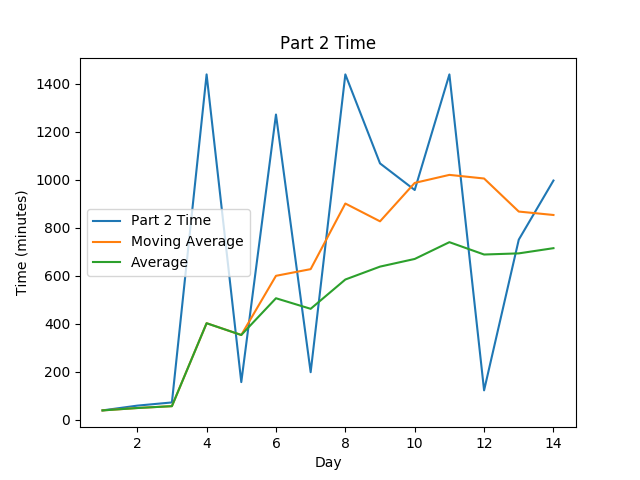
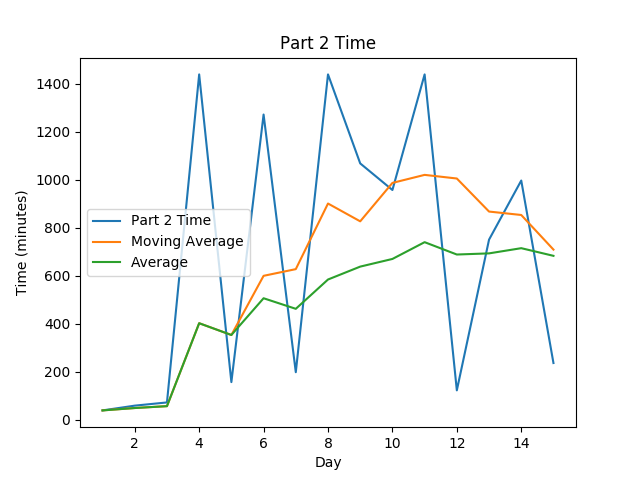
Day 15, stats, and makefile debugging

diff --git a/src/day15.go b/src/day15.go
@@ -1,0 +1,194 @@
+package main
+
+import (
+	"IntCode"
+	"bufio"
+	"flag"
+	"fmt"
+	"log"
+	"math"
+	"math/rand"
+	"os"
+	"strconv"
+	"strings"
+	"sync"
+)
+
+const (
+	NORTH = 1
+	SOUTH = 2
+	WEST  = 3
+	EAST  = 4
+)
+
+type coord struct {
+	X int
+	Y int
+}
+
+func (c *coord) clone() *coord {
+	return &coord{X: c.X, Y: c.Y}
+}
+
+func (c *coord) move(direction int) coord {
+	switch direction {
+	case NORTH:
+		c.Y++
+	case EAST:
+		c.X++
+	case SOUTH:
+		c.Y--
+	case WEST:
+		c.X--
+	default:
+		log.Fatalf("Invalid direction received: %d", direction)
+	}
+	return *c
+}
+
+func (c *coord) closest(movementMap map[coord]int) int {
+	minSteps := math.MaxInt64
+	if testDist := movementMap[c.clone().move(NORTH)]; testDist < minSteps && testDist > 0 {
+		minSteps = testDist
+	}
+	if testDist := movementMap[c.clone().move(SOUTH)]; testDist < minSteps && testDist > 0 {
+		minSteps = testDist
+	}
+	if testDist := movementMap[c.clone().move(EAST)]; testDist < minSteps && testDist > 0 {
+		minSteps = testDist
+	}
+	if testDist := movementMap[c.clone().move(WEST)]; testDist < minSteps && testDist > 0 {
+		minSteps = testDist
+	}
+	return minSteps
+}
+
+func (c *coord) hasAdjacentUnsolved(movementMap map[coord]int) bool {
+	for i := 1; i <= 4; i++ {
+		if _, keyExists := movementMap[c.clone().move(i)]; !keyExists {
+			return true
+		}
+	}
+	return false
+}
+
+var (
+	inputFile = flag.String("inputFile", "inputs/day15.txt", "Input File")
+)
+
+func main() {
+	flag.Parse()
+
+	commands := processInput()
+	run(commands)
+}
+
+func processInput() []int {
+	file, err := os.Open(*inputFile)
+	if err != nil {
+		log.Fatal(err)
+	}
+	//noinspection GoUnhandledErrorResult
+	defer file.Close()
+
+	// Read in inputs
+	scanner := bufio.NewScanner(file)
+	inputStringFromFile := ""
+	for scanner.Scan() {
+		inputStringFromFile += scanner.Text()
+	}
+
+	commandStrings := strings.Split(inputStringFromFile, ",")
+	var commands []int
+	for _, commandString := range commandStrings {
+		command, err := strconv.Atoi(commandString)
+		if err != nil {
+			log.Fatal(err)
+		}
+		commands = append(commands, command)
+	}
+	return commands
+}
+
+func run(commands []int) {
+	botController := IntCode.New()
+	commandsClone := make([]int, len(commands))
+	copy(commandsClone, commands)
+	go botController.Run(commandsClone)
+
+	movementMap := make(map[coord]int)
+	moveDirection := NORTH
+	botController.Input <- moveDirection
+	wg := sync.WaitGroup{}
+	wg.Add(1)
+	go func(botController *IntCode.Stream) {
+		defer func() {
+			wg.Done()
+			recovery := recover()
+			if recovery != nil && fmt.Sprint(recovery) != "send on closed channel" {
+				panic(recovery)
+			}
+		}()
+
+		robotLocation := coord{X: 0, Y: 0}
+		movementMap[robotLocation] = 1
+		for movementStatus := range botController.Output {
+			if movementStatus != 0 {
+				robotLocation = robotLocation.move(moveDirection)
+				stepsToLocation := robotLocation.closest(movementMap) + 1
+				if _, keyExists := movementMap[robotLocation]; !keyExists || stepsToLocation < movementMap[robotLocation] && stepsToLocation > 0 {
+					movementMap[robotLocation] = stepsToLocation
+				}
+
+				if movementStatus == 2 {
+					fmt.Printf("Movements to the oxygen port (262 expected): %d\n", movementMap[robotLocation] - 1)
+					break
+				}
+			}
+			moveDirection = rand.Intn(4) + 1
+			botController.Input <- moveDirection
+		}
+
+		fmt.Println("Warning: This is a poor strategy that utilizes randomness to find all branches of the maze")
+
+		moveDirection = rand.Intn(4) + 1
+		botController.Input <- moveDirection
+		movements := 0
+		movementMap = make(map[coord]int)
+		movementMap[robotLocation] = 1
+		for movementStatus := range botController.Output {
+			movements++
+			if movementStatus != 0 {
+				robotLocation = robotLocation.move(moveDirection)
+				stepsToLocation := robotLocation.closest(movementMap) + 1
+				if _, keyExists := movementMap[robotLocation]; !keyExists || stepsToLocation < movementMap[robotLocation] && stepsToLocation > 0 {
+					movementMap[robotLocation] = stepsToLocation
+				} else if keyExists {
+				}
+
+				if movements % 1000 == 0 {
+					tileRemainsUnexplored := false
+					maxDistance := math.MinInt64
+					for coordinate, distance := range movementMap {
+						tileRemainsUnexplored = (coordinate.hasAdjacentUnsolved(movementMap) && distance > -1) || tileRemainsUnexplored
+						if distance > maxDistance && distance > 0 {
+							maxDistance = distance
+						}
+					}
+
+					if !tileRemainsUnexplored {
+						fmt.Printf("Minutes to fill the chamber (expected 314): %d\n", maxDistance - 1)
+						break
+					}
+				}
+			} else {
+				if _, keyExists := movementMap[robotLocation.clone().move(moveDirection)]; !keyExists {
+					movementMap[robotLocation.clone().move(moveDirection)] = -1
+				}
+			}
+			moveDirection = rand.Intn(4) + 1
+			botController.Input <- moveDirection
+		}
+	}(botController)
+	wg.Wait()
+}

diff --git a/challenges/day15.md b/challenges/day15.md
@@ -1,0 +1,61 @@
+## Day 15: Oxygen System
+
+ Out here in deep space, many things can go wrong.
+
+Fortunately, many of those things have indicator lights.
+
+Unfortunately, one of those lights is lit: the oxygen system for part of the ship has failed! According to the readouts, the oxygen system must have failed days ago after a rupture in oxygen tank two; that section of the ship was automatically sealed once oxygen levels went dangerously low.
+
+A single remotely-operated repair droid is your only option for fixing the oxygen system.
+
+The Elves' care package included an Intcode program (your puzzle input) that you can use to remotely control the repair droid.
+
+By running that program, you can direct the repair droid to the oxygen system and fix the problem.
+
+The remote control program executes the following steps in a loop forever: Accept a movement command via an input instruction.
+
+Send the movement command to the repair droid.
+
+Wait for the repair droid to finish the movement operation.
+
+Report on the status of the repair droid via an output instruction.
+
+Only four movement commands are understood: north ( ` 1 ` ), south ( ` 2 ` ), west ( ` 3 ` ), and east ( ` 4 ` ).
+
+Any other command is invalid.
+
+The movements differ in direction, but not in distance: in a long enough east-west hallway, a series of commands like ` 4,4,4,4,3,3,3,3 ` would leave the repair droid back where it started.
+
+The repair droid can reply with any of the following status codes: ` 0 ` : The repair droid hit a wall.
+
+Its position has not changed. ` 1 ` : The repair droid has moved one step in the requested direction. ` 2 ` : The repair droid has moved one step in the requested direction; its new position is the location of the oxygen system.
+
+You don't know anything about the area around the repair droid, but you can figure it out by watching the status codes.
+
+For example, we can draw the area using ` D ` for the droid, ` # ` for walls, `. ` for locations the droid can traverse, and empty space for unexplored locations.
+
+Then, the initial state looks like this: ` D ` To make the droid go north, send it ` 1 `.
+
+If it replies with ` 0 ` , you know that location is a wall and that the droid didn't move: ` # D ` To move east, send ` 4 ` ; a reply of ` 1 ` means the movement was successful: ` #.D ` Then, perhaps attempts to move north ( ` 1 ` ), south ( ` 2 ` ), and east ( ` 4 ` ) are all met with replies of ` 0 ` : ` ##.D# # ` Now, you know the repair droid is in a dead end.
+
+Backtrack with ` 3 ` (which you already know will get a reply of ` 1 ` because you already know that location is open): ` ## D.# # ` Then, perhaps west ( ` 3 ` ) gets a reply of ` 0 ` , south ( ` 2 ` ) gets a reply of ` 1 ` , south again ( ` 2 ` ) gets a reply of ` 0 ` , and then west ( ` 3 ` ) gets a reply of ` 2 ` : ` ## #..# D.# # ` Now, because of the reply of ` 2 ` , you know you've found the oxygen system ! In this example, it was only ` 2 ` moves away from the repair droid's starting position.
+
+What is the fewest number of movement commands required to move the repair droid from its starting position to the location of the oxygen system? 
+
+## Part Two
+
+ You quickly repair the oxygen system; oxygen gradually fills the area.
+
+Oxygen starts in the location containing the repaired oxygen system.
+
+It takes one minute for oxygen to spread to all open locations that are adjacent to a location that already contains oxygen.
+
+Diagonal locations are not adjacent.
+
+In the example above, suppose you've used the droid to explore the area fully and have the following map (where locations that currently contain oxygen are marked ` O ` ): ` ## #..## #.#..##.O.# ### ` Initially, the only location which contains oxygen is the location of the repaired oxygen system.
+
+However, after one minute, the oxygen spreads to all open ( `. ` ) locations that are adjacent to a location containing oxygen: ` ## #..## #.#..##OOO# ### ` After a total of two minutes, the map looks like this: ` ## #..## #O#O.##OOO# ### ` After a total of three minutes: ` ## #O.## #O#OO##OOO# ### ` And finally, the whole region is full of oxygen after a total of four minutes: ` ## #OO## #O#OO##OOO# ### ` So, in this example, all locations contain oxygen after ` 4 ` minutes.
+
+Use the repair droid to get a complete map of the area.
+
+How many minutes will it take to fill with oxygen? 

diff --git a/README.md b/README.md
@@ -38,7 +38,8 @@ it in OOP, but this is good enough for now!
 |  12 | 01:26:42 ( 2328) (  0)     | 02:03:07 ( 1112) (  0)     |
 |  13 | 11:45:51 ( 6814) (  0)     | 12:31:12 ( 4959) (  0)     |
 |  14 | 16:16:57 ( 4525) (  0)     | 16:37:36 ( 3903) (  0)     |
-| Avg | 11:14:20 ( 7765) (  0)     | 08:29:58 ( 7024) (  0)     |
+|  15 | 03:14:01 ( 1249) (  0)     | 03:56:58 ( 1177) (  0)     |
+| Avg | 10:42:18 ( 7330) (  0)     | 08:11:46 ( 6634) (  0)     |
 
 
 <img alt="Part 1 Time Stats" src="statsImages/part1time.png" width=400> <img alt="Part 1 Rank" src="statsImages/part1rank.png" width=400>
